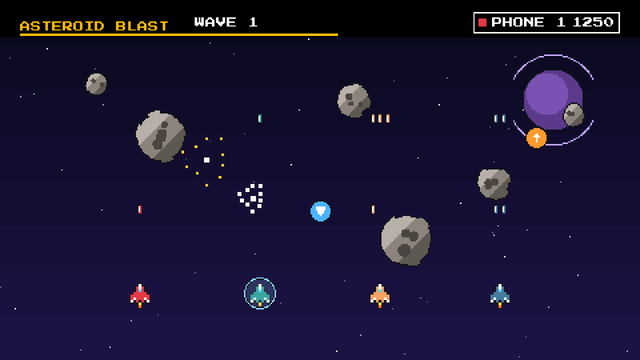
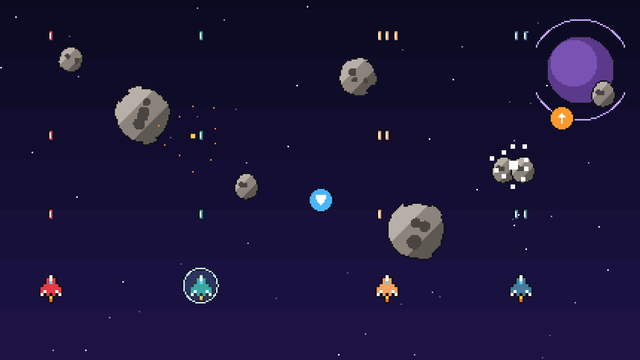
Tests: team places skip in multi_phone, song start limit scaled when instrumented

diff --git a/docs/MANUAL_TESTS.md b/docs/MANUAL_TESTS.md
@@ -539,19 +539,19 @@ History:
 Needs: 1 TV (phones for the game photos), a camera for photos. Covers: REQ-GM-49, REQ-FL-20, REQ-FL-40, REQ-GM-41.
 
 Phones are needed only for the photos of the running games. Needs the TV and the Games screen. New. This is the visual check that the `review` skill asks for with a screenshot of the game next to the Games screen.
-A tile has a 16:9 picture. The colors and the objects of each tile file (the ground, the 4 player colors, the main objects) are checked by the test `tiles` (A-12-3 to A-12-10); the steps below keep only what the test does not see. Today the tile shows the world of the game with its HUD (score, title). (Changes with issue #57: the tile shows only the world of the game, with no HUD, title bar, leader chip, name tag, score, time, hint or menu text. Then a tile with any of these texts fails. The test `pixel_render` already looks for the black bar and lists it as a known bug.)
+A tile has a 16:9 picture. The colors and the objects of each tile file (the ground, the 4 player colors, the main objects) are checked by the test `tiles` (A-12-3 to A-12-10); the steps below keep only what the test does not see. The tile shows only the world of the game, with no HUD, title bar, leader chip, name tag, score, time, hint or menu text (issue #57 fixed: `tools/make_tiles.gd` draws without the HUD; the test `pixel_render` checks the top rows).
 
 **Steps**
 
 1c. Open the Games screen on the TV (the Android build, not the computer). Look at every tile. Check: each of the 9 tiles shows its screenshot, a title and a player range (for example "1-4 PLAYERS"): 9 of 9. (REQ-FL-13. The tile files, their import, the export presets and the player range are checked by A-12-1c.)
 1e. From the sofa (about 3 m), look at the Games screen. Check: the tester reads aloud the title and the player range of 3 tiles and the description of the focused game, without error. (REQ-FL-40)
-2. For each game, compare its tile with a photo of the game running. Check: the tile has the same background color and the same main objects as the photo (the objects are listed in A-12-3 to A-12-10 and in the steps below). (Changes with issue #57.)
-3b. Check the tile of **Road Rally**. Check: the road in the tile turns in a bend (as in Track 1, Hard), with a post beside it. (The 4 cars, the candy ground, the road and the outline of the posts are checked by A-12-3b. Changes with issue #57.)
-4. Check the tile of **Banana Party**. Check: an animal was just hit (the text "+10" over it) and a banana is in the air. (The jungle, the four cursor rings, the banana and the black outline of an animal are checked by A-12-4. Changes with issue #57: no score and no "+10" text.)
-5. Check the tile of **Paint Grab**. Check: the hidden picture shows in the floor. (The floor, the bonus pot and the four blobs are checked by A-12-5. Changes with issue #57.)
-8. Check the tile of **Pin Pals**. Check: the 10 pins stand in a triangle and the ball is between the foul line and the pins. (The lane and the white shapes are checked by A-12-8; the test counts 138 white blobs and does not count the 10 pins. Changes with issue #57.)
-9. Check the tile of **Tennis**. Check: the ball is high over the near half of the court. (The grass, the court, the ball and the players are checked by A-12-9. Changes with issue #57.)
-10. Check the tile of **Mini Golf**. Check: a ball is between the tee and the hole. (The fairway, the lake, the windmill and the players are checked by A-12-10. Changes with issue #57.)
+2. For each game, compare its tile with a photo of the game running. Check: the tile has the same background color and the same main objects as the photo (the objects are listed in A-12-3 to A-12-10 and in the steps below).
+3b. Check the tile of **Road Rally**. Check: the road in the tile turns in a bend (as in Track 1, Hard), with a post beside it. (The 4 cars, the candy ground, the road and the outline of the posts are checked by A-12-3b.)
+4. Check the tile of **Banana Party**. Check: an animal was just hit (its peel shows) and a banana is in the air. (The jungle, the four cursor rings, the banana and the black outline of an animal are checked by A-12-4. Changes with issue #57: no score and no "+10" text.)
+5. Check the tile of **Paint Grab**. Check: the hidden picture shows in the floor. (The floor, the bonus pot and the four blobs are checked by A-12-5.)
+8. Check the tile of **Pin Pals**. Check: the 10 pins stand in a triangle and the ball is between the foul line and the pins. (The lane and the white shapes are checked by A-12-8; the test counts 138 white blobs and does not count the 10 pins.)
+9. Check the tile of **Tennis**. Check: the ball is high over the near half of the court. (The grass, the court, the ball and the players are checked by A-12-9.)
+10. Check the tile of **Mini Golf**. Check: a ball is between the tee and the hole. (The fairway, the lake, the windmill and the players are checked by A-12-10.)
 
 Items 1a, 1b, 1d, 3a, 6 and 7 moved to the automated tests (`docs/AUTOMATED_TESTS.md`, A-12-1a, A-12-1b, A-12-1d, A-12-3a, A-12-6, A-12-7). The numbers of the other items do not change.
 
@@ -966,7 +966,7 @@ Hold each phone upright or flat as you do for the other tilt games. New game (20
 
 **Steps**
 
-1b. Put the tile next to the game screen (REQ-GM-49). Check: the tile and the game show the same four things: the night sky with stars, the purple planet, a gray asteroid and a ship. (Changes with issue #57.)
+1b. Put the tile next to the game screen (REQ-GM-49). Check: the tile and the game show the same four things: the night sky with stars, the purple planet, a gray asteroid and a ship.
 2e. Read the hint line "Tilt to steer. Your ship shoots by itself. Grab the upgrades!" aloud from 3 m during "3, 2, 1". Check: no error.
 3c. Tilt to the right and keep the tilt for 2 s after the ship stops. Do the same to the left. Check: the ship stops at both sides, stays fully on the screen, does not move more, and its middle is 5.5 % to 7 % of the screen width (about 120 px of 1920: the 60 px margin plus the 60 px of REQ-AB-2) from the edge of the screen.
 9a. Let a child of about 5 to 8 years play, with a grown-up next to them who does not help. Check: in "3, 2, 1" the child points at its own ship within 10 s.
@@ -1016,7 +1016,7 @@ New game (2026-10-16). It was only tested with made-up sensor values. Every numb
 
 **Steps**
 
-1b. Put the tile next to the game screen (REQ-GM-49). Check: the tile and the game show the same four things: the lane with pins, the ball, the gray floor and the disco wall. (Changes with issue #57.)
+1b. Put the tile next to the game screen (REQ-GM-49). Check: the tile and the game show the same four things: the lane with pins, the ball, the gray floor and the disco wall.
 3e. **Aim strip.** On the phone on turn, slide a finger from the left end of the strip to the right end in about 1 s, then back. Check: the ball on the TV is in the left gutter at the left end of the strip and in the right gutter at the right end, and it moves in the same direction as the finger. (The mapping is in A-23-3.)
 3f. Film the phone and the TV together at 60 fps or more and slide a finger on the strip. Check: the ball starts to move within 12 frames (0.2 s) after the finger starts to move, in 5 of 5 tries.
 3g. Touch A, B, and the rest of the screen outside the strip with a finger, 5 times each. Check: the ball does not move. On a phone that is not on turn the Recenter box is back and works as RECENTER.
@@ -1108,7 +1108,7 @@ New game (2026-10-17). It was only tested with made-up sensor values. Every numb
 
 **Steps**
 
-1b. Put the tile next to the game screen (REQ-GM-49). Check: the tile and the game show the same four things: the court, the net, a character and the ball. (Changes with issue #57.)
+1b. Put the tile next to the game screen (REQ-GM-49). Check: the tile and the game show the same four things: the court, the net, a character and the ball.
 2b. In "3, 2, 1" look at the court. Check: you can point at all of these: the doubles sidelines, the singles sidelines, the baselines, the service lines, the net, the umpire on the chair, the ball kid at the left net post, the stands and the blank ad boards.
 4g. Record the phone and the TV with the camera (240 fps) for 5 hits. Count the frames from the fastest point of the swing to the contact of the racket and the ball. Check: the median delay is 150 ms or less (36 frames at 240 fps).
 6c. Alternate swings 30 degrees to the right and 30 degrees to the left of your usual straight swing, 5 each, 2 s apart. Check: at least 4 of the 5 balls to the right land in the right half of the court (from the view of the swinging player), and at least 4 of the 5 balls to the left land in the left half.
@@ -1162,7 +1162,7 @@ New game (2026-10-17). It was only tested with made-up sensor values. Every numb
 
 **Steps**
 
-1b. Put the tile next to the game screen (REQ-GM-49). Check: the tile and the game show the same four things: the lawn, the fence, a golfer and the ball. (Changes with issue #57.)
+1b. Put the tile next to the game screen (REQ-GM-49). Check: the tile and the game show the same four things: the lawn, the fence, a golfer and the ball.
 2b. Look at the course. Check: you can point at all of these: the lawn, the fence, the clubhouse, the bushes and the walls of the hole.
 3b2. Look at the golfer. Check: the cap, the trousers and the shoes are white (3 of 3 white). (The shirt has the color of the phone of the player on turn: A-26-3b.)
 5e. Record the phone and the TV (240 fps) for 5 putts. Count the frames from the fastest point of the swing to the first move of the ball. Check: the median delay is 150 ms or less (36 frames at 240 fps).

diff --git a/docs/AUTOMATED_TESTS.md b/docs/AUTOMATED_TESTS.md
@@ -116,7 +116,7 @@ It needs `xvfb` and Mesa (`libgl1-mesa-dri`). A known-bug check (`FAIL (known bu
 | A-12-7 | Test 12 item 7: the Galaxy Protector tile | `tiles`: "asteroid_blast: the night sky is most of the picture", "asteroid_blast: at least 3 asteroids and the biggest is 3 times the area of the smallest", "asteroid_blast: a beam of the weapon color", "asteroid_blast: 4 of the 4 player colors show" |
 | A-12-8 | Test 12 item 8 (the colors): the Pin Pals tile | `tiles`: "bowling: the lane and N white blobs (10 pins and more)" (weak: 138 blobs are found), "bowling: 2 of the 4 player colors show". The triangle of pins and the ball are not asserted: item 8 |
 | A-12-9 | Test 12 item 9 (the colors): the Tennis tile | `tiles`: "tennis: the grass, the court and the yellow ball", "tennis: 3 of the 4 player colors show". The height of the ball is not asserted: item 9 |
-| A-12-10 | Test 12 item 10 (the colors): the Mini Golf tile | `tiles`: "mini_golf: the fairway, the lake and the wood of the windmill", "mini_golf: 2 of the 4 player colors show". The ball between the tee and the hole is not asserted: item 10 |
+| A-12-10 | Test 12 item 10 (the colors): the Mini Golf tile | `tiles`: "mini_golf: the fairway, the lake and the wood of the windmill", "mini_golf: 1 of the 4 player colors show" (the golfer on its turn; the chips are not in the tile). The ball between the tee and the hole is not asserted: item 10 |
 | A-14-3 | Test 14 items 3a to 3c, the blob feel (direction, stop, edges) | `auto_paint`: "a tilt to the right rolls the blob to the right (x > 0)", "...to the left...", "the top of the phone up rolls the blob down the screen (y > 0)" and the 4th direction (all through the sensor fusion); "full tilt for 1.5 s gives a high speed", "the blob still rolls 0.5 s and 2 s after the tilt stops", the speed is under 20 px/s at 3.5 s and 4 s; "in 10 s of full tilt at all 4 edges the whole blob stayed inside the floor" and the blob bounced at right, left, up and down. The real sensor axes stay in Test 3 |
 | A-14-4 | Test 14 item 4b, the logic of taking a tile (4c: A-14-4a, 4c) | `auto_paint`: "painting a free tile buzzes nobody", "taking the tile of another player buzzes the player that took it for 20 ms" |
 | A-14-5 | Test 14 items 5a to 5c, floors, speed, medals | `auto_paint`: "the floor and the speed of the 3 levels" (12 x 7, 16 x 9, 20 x 11), the roll time over 600 px is Easy > Medium > Hard with ratio bounds, "every limit gives its medal, the tile below gives the one before, and the title names the level"; `paint_rules`: "the floor is 12 x 7, 16 x 9 and 20 x 11 tiles on Easy, Medium and Hard (REQ-PG-20)", "the medal tiers in percent are 35/55/75, 30/50/70 and 25/40/55 (REQ-PG-21)" |
@@ -331,7 +331,7 @@ a real device, but they make a regression show in CI before a person sees it. Th
 | `device_mocks_b` | simulated phones on loopback for the maze, Road Rally and Banana Party: the buzz at a wall, a post and a car, at most 7 buzzes in a second, RECENTER while the car runs, two throws in one frame, a silent phone (the Start button of the maze view, the card of Banana Party). It runs about 25 s in real time |
 | `game_rules_b` | Banana Party: crossing times of the lanes, the golden monkey, the animal pictures; Road Rally: the lists of obstacles and scenery of 3 themes, the board palette, the time to make a board, the finish line, the cars. (A second file, because `game_rules` is at the line limit of gdlint.) |
 | `tiles` | the 9 tile files as pictures: size, import, export presets, and for each game the ground and the main objects as colors and blobs (this finds a stale tile after a look change; it does not compare with a running game) |
-| `pixel_render` (render lane, NOT in `tests/suites.txt`, no coverage) | real frames from the software GL driver (`xvfb`, Mesa llvmpipe), run at 1920x1080 and 3840x2160: menus and logo have only palette colors; Road Rally in 3 themes (sharp blocks, cars and obstacles exact, the HUD and the 60 px edge); Banana Party jungle (the bar, the lanes, the 6 animals exact); the 9 tiles are 640x360 and 2 of them have look colors; known bugs print `FAIL (known bug)` and count as failures (issue 57 for the HUD bar in all tiles, the logo file with 2x2 pixels). Run: `xvfb-run -a -s "-screen 0 1920x1080x24" godot --path . --rendering-driver opengl3 --resolution 1920x1080 --script tests/pixel_render.gd -- --role=tv`, and the same with 3840x2160 (the size must come from `--resolution`). CI: the job `pixels` (not run on GitHub yet) |
+| `pixel_render` (render lane, NOT in `tests/suites.txt`, no coverage) | real frames from the software GL driver (`xvfb`, Mesa llvmpipe), run at 1920x1080 and 3840x2160: menus and logo have only palette colors; Road Rally in 3 themes (sharp blocks, cars and obstacles exact, the HUD and the 60 px edge); Banana Party jungle (the bar, the lanes, the 6 animals exact); the 9 tiles are 640x360 and 2 of them have look colors; known bugs print `FAIL (known bug)` and count as failures (the logo file with 2x2 pixels); the top rows of each tile are no black HUD bar (REQ-GM-49). Run: `xvfb-run -a -s "-screen 0 1920x1080x24" godot --path . --rendering-driver opengl3 --resolution 1920x1080 --script tests/pixel_render.gd -- --role=tv`, and the same with 3840x2160 (the size must come from `--resolution`). CI: the job `pixels` (not run on GitHub yet) |
 | `sim_b` (helper, not a suite) | simulated phones, a fake-clock sensor feed and hand-stepped games for the suites above |
 | `auto_paint` | Paint Grab with a fixed time step: the tilt directions, damping, the edges, the 3 levels (floors, speed, medal tiers), 2 blobs, leader and winner, the tile grid and pop, takes and pots, a player leaves, the slot colors |
 | `auto_sumo` | Sumo Bumpers with a fixed time step: the tilt, the shrinking island and its ring, bump and buzz limit, the dash, the fall and WHEE!, the next round, round length and wait for 3 levels, 3 rounds with 2, 3 and 4 phones, the penguins |

diff --git a/docs/GAME_REQUIREMENTS.md b/docs/GAME_REQUIREMENTS.md
@@ -88,7 +88,7 @@ The 8-bit arcade style (FD-18) changed REQ-GM-45 and 46 (the shell) in phase 1. 
   - REQ-GM-47n: Pixel text. No text is drawn in the pixel view. A word in the world ("Whee!") is drawn by the HUD at the position of its object. An object has no number (REQ-GM-46).
   - REQ-GM-47o: Languages (FD-19, REQ-FL-54, 63). Every text the shell draws goes through `Lang` (`Shell.title`, `text`, `hint`, `countdown`, the menus and the result list), and a game builds a text with a name or a number with `Lang.f()` from a format string, never by joining pieces. In Hebrew (right to left) the HUD is mirrored by the shell: the title is at the top right, the leader chip is at the left margin, the timer box is at the right. The timer box has **one place in every game** that has one (`Shell.TIMER_X`, `Shell.TIMER_Y`): its left edge is at x 520 and its top at y 36 on a 1920 wide screen in English, and its right edge is at x 1400 (1920 - 520) in Hebrew (`Shell.mx`). Road Rally has no place of its own (it was at x 640). The title is left of it and the leader chip is right of it, so they never overlap, a chip is laid out left to right in both languages (the color square, the avatar, the name, the score) and a game puts its own HUD text with `Shell.mx()`. The game world is never mirrored: a maze, a track or an arena is the same in both languages. A game with a new text adds a row (key, English, Hebrew) to `assets/lang/strings.csv` and uses the key in the code; `tests/smoke_lang.gd` fails when a literal text is not a key or has no Hebrew text.
 - REQ-GM-48: Tier 3, free. Setting, background, camera, lighting mood and theme colors are the choice of the game. The background colors come from the arcade set (black `#000000`, blue `#1b3a8a`, teal `#0f6a78`, plum `#7a1f4a`, green `#145a3a`, amber `#8a4a00`), or from a set that the game's requirements file lists, and they follow REQ-GM-47e (REQ-GM-47m in a pixel world). A pixel world may also use a black background with star pixels.
-- REQ-GM-49: Check for a new game: put a screenshot of the game next to the Games screen. They must look like the same toy box. The reviewer (the `review` skill) does this check. Hints at the bottom of the screen sit on a dark plate (`Shell.hint`), so a wall or a track behind them does not hide the text. **Planned (issue #57):** the tile of a game shows only the world of the game, with no HUD, title bar, leader chip, name tag, score, time, hint or menu text.
+- REQ-GM-49: Check for a new game: put a screenshot of the game next to the Games screen. They must look like the same toy box. The reviewer (the `review` skill) does this check. Hints at the bottom of the screen sit on a dark plate (`Shell.hint`), so a wall or a track behind them does not hide the text. The tile of a game shows only the world of the game, with no HUD, title bar, leader chip, name tag, score, time, hint or menu text. `tools/make_tiles.gd` sets `tile_mode` on the game (the game draws no HUD) and cuts the HUD strip (112 px at 1080p) from the picture, so there is no black bar either; `pixel_render` checks the top rows of every tile.
 
 Scores and solo play
 
